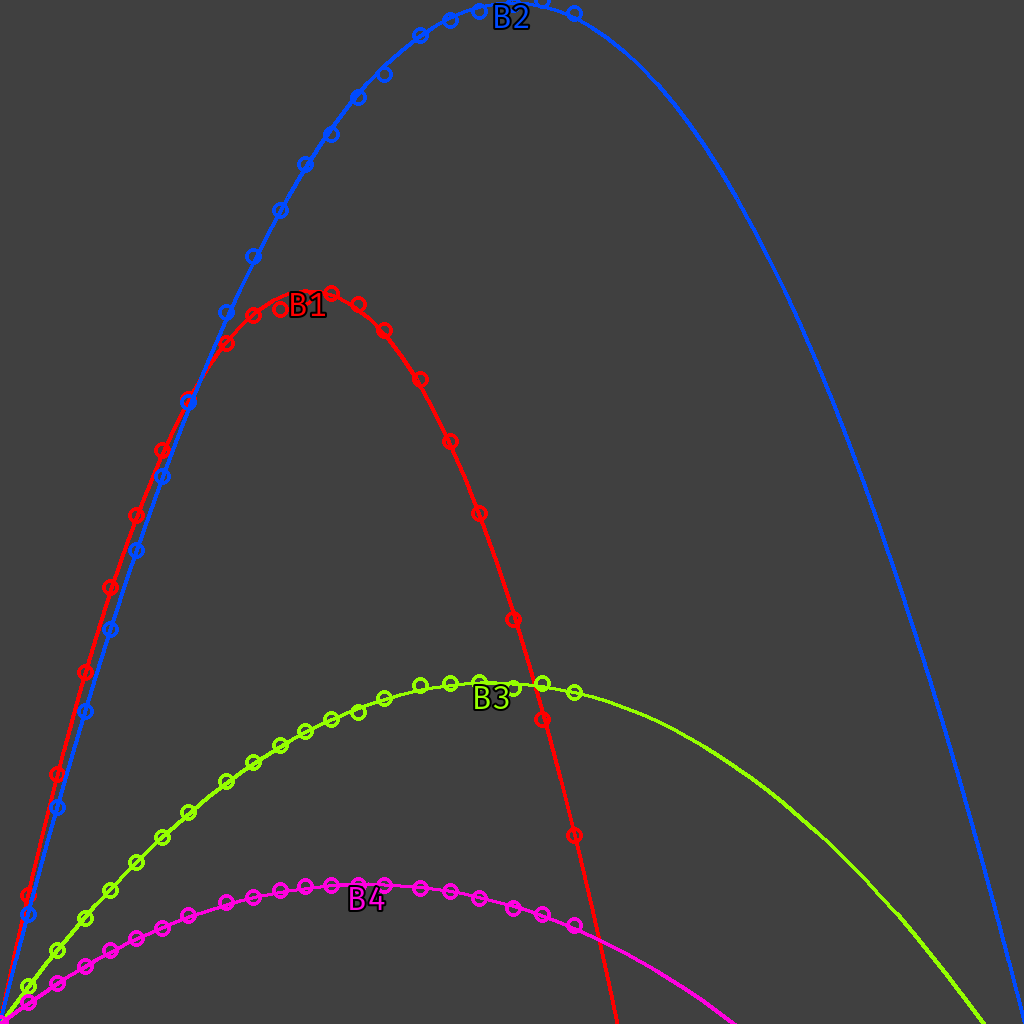
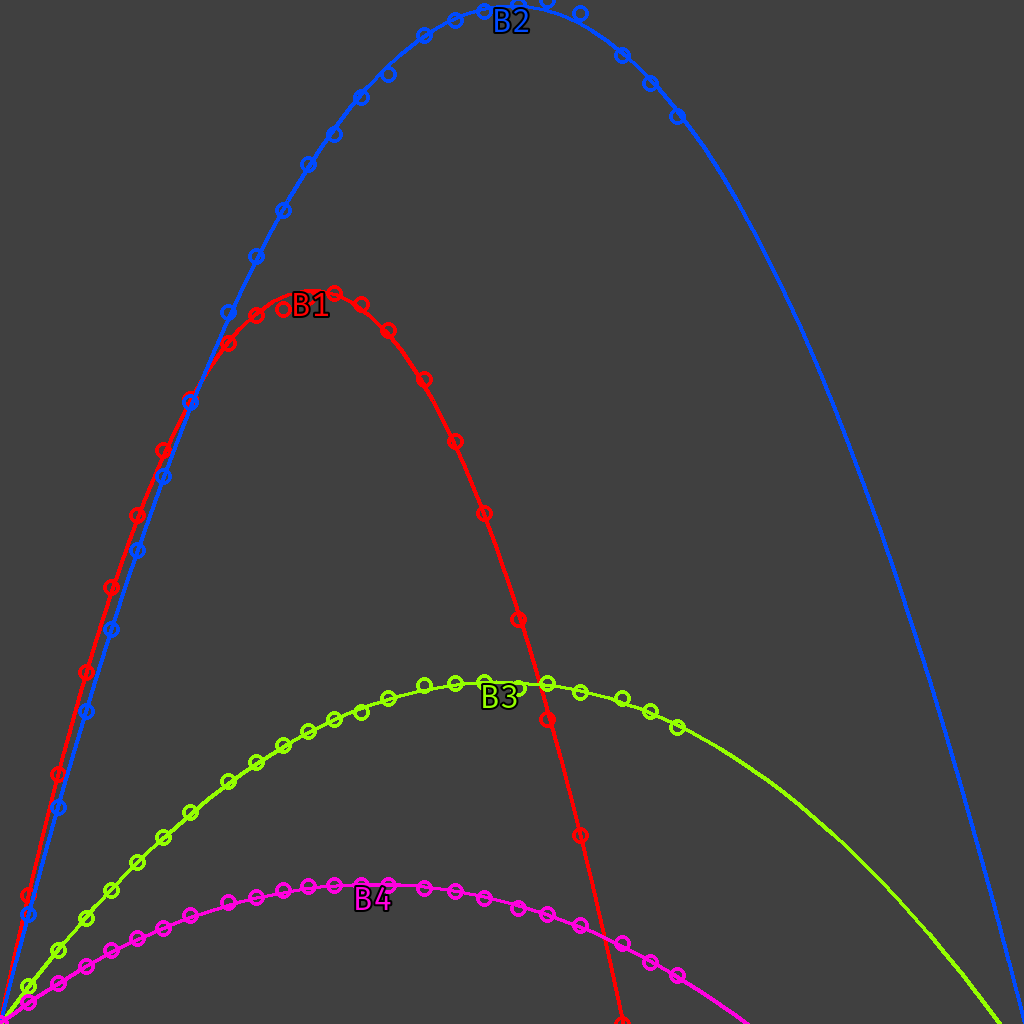
Update

diff --git a/TankyRuns.py b/TankyRuns.py
@@ -49,7 +49,8 @@ BattleKnife = {
     0,      22461,  45531,  67398,  87569,  107683,
     128406, 149423, 179176, 200895, 221791, 241865,
     262177, 283344, 303943, 332629, 356484, 379115,
-    406138, 428983, 454559,
+    406138, 428983, 454559, 487290, 509164, 530464,
+    555697,
   ],
   "group": [
     {
@@ -58,7 +59,7 @@ BattleKnife = {
         19,       3996409,  7743781,  10939418, 13580196, 15819966,
         17823799, 19432716, 21167993, 22015582, 22201607, 22578272,
         22704594, 22373662, 21564919, 20037313, 18110858, 15881624,
-        12574936, 9457177,  5855394,
+        12574936, 9457177,  5855394,  0,
       ],
     }, {
       "name": "B2",
@@ -66,7 +67,8 @@ BattleKnife = {
         19,       3404910,  6744712,  9712325,  12270146, 14709053,
         17028008, 19319205, 22109807, 23859410, 25294860, 26727099,
         27672447, 28820775, 29533650, 30736103, 31197820, 31498253,
-        31713481, 31840773, 31427867,
+        31713481, 31840773, 31427867, 30108679, 29244268, 28211968,
+        26442770,
       ],
     }, {
       "name": "B3",
@@ -74,7 +76,8 @@ BattleKnife = {
         19,       1153217,  2291617,  3278712,  4165483,  5007037,
         5812104,  6585383,  7548720,  8146648,  8658494,  9109038,
         9461376,  9675828,  10118052, 10539159, 10580075, 10606491,
-        10416807, 10591608, 10307343,
+        10416807, 10591608, 10307343, 10131034, 9719297,  9214354,
+        9047506,
       ],
     }, {
       "name": "B4",
@@ -82,14 +85,15 @@ BattleKnife = {
         19,       656200,   1246719,  1797042,  2281018,  2661207,
         2983262,  3368353,  3765736,  3935344,  4160857,  4276248,
         4316882,  4314124,  4317538,  4199293,  4125160,  3917204,
-        3591825,  3392791,  3054416,
+        3591825,  3392791,  3054416,  2517239,  1913107,  1517033,
+        908429,
       ],
     },
   ],
 }
 
 # BattleKnife(807018) (target - current) / 1148
-#   474559
+#   555697
 
 def runToPng(name, imgSize, data):
   # Ensure data points and quadratic curve is in frame
